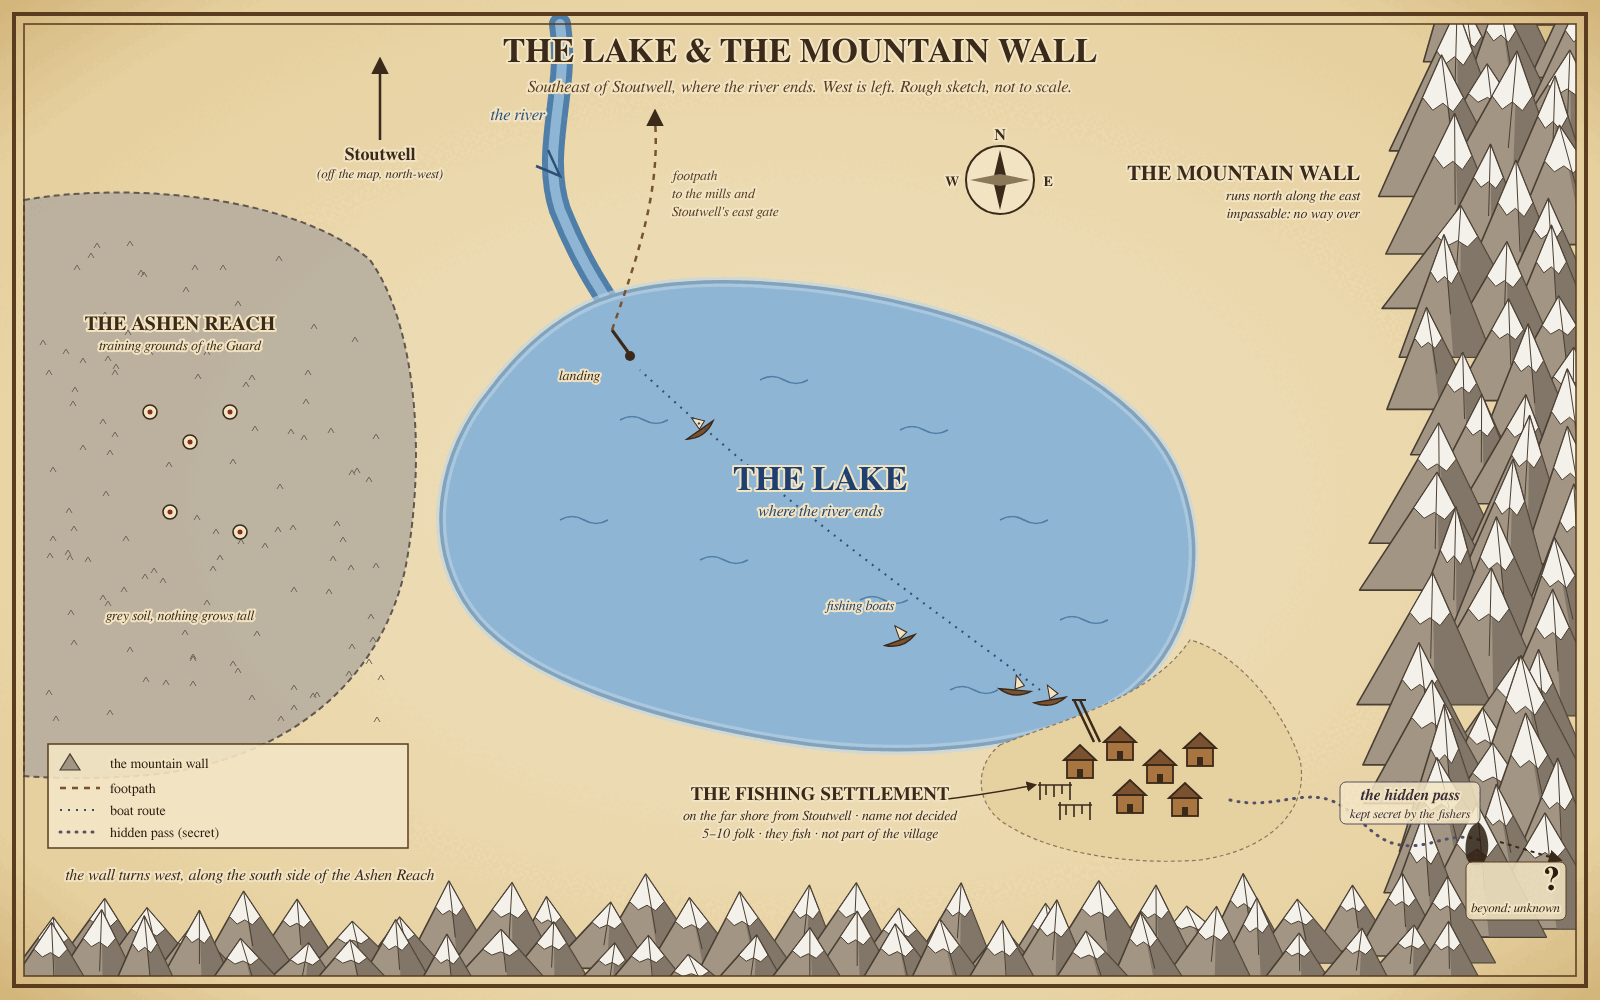
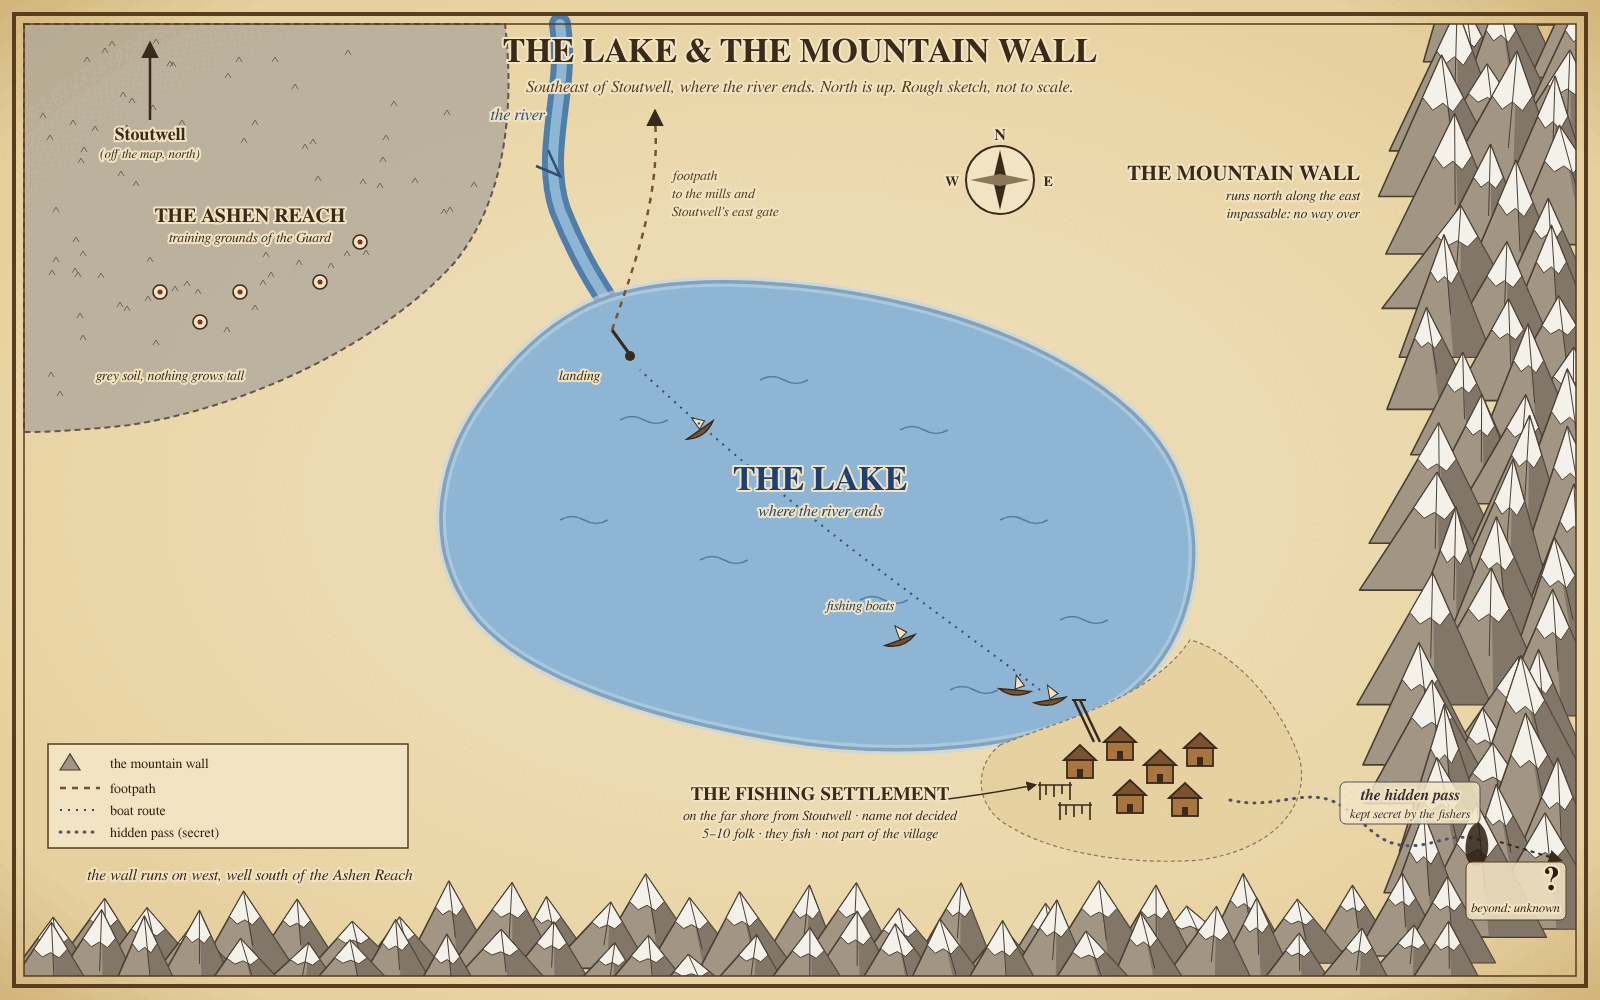
Lake map: put the Ashen Reach to the northwest
The Ashen Reach lies south of Stoutwell, which is northwest of the lake,
so on the close-up it now sits in the top-left corner with Stoutwell off
the map to its north, not along the west edge.

Claude-Session: https://claude.ai/code/session_014B9TrNExnVdXjS4BEkuqGY

Changed region(s): [[0.0, 0.0, 0.6562, 0.775], [0.0312, 0.868, 0.2812, 0.899]]

diff --git a/maps/README.md b/maps/README.md
@@ -4,4 +4,4 @@ Rough sketches, not to scale.
 
 - `region.png`: Verrowen around Stoutwell. It shows the Kingdom and its capital, the Monster Wood (the Blight, the goblin lands, troll territory and how far adventurers from the west have gotten), the Woodland Road, the croplands, Stoutwell, the Ashen Reach (its training grounds, to the south), the river, the irrigation and the mills, and to the southeast the lake where the river ends, the fishing settlement on its far shore, the corner of the mountain wall that runs along the east and the south, and the fishers' hidden pass. `region.svg` is its editable source.
 - `stoutwell.png`: inside the walls. It shows the four gates, the main roads from each gate to the town square and the lanes into each district, the districts and the slanted divide (slums along the south and SE), the Gathering Hall, the dried well, the Wellhouse, Monstradius and the research building, Murrow's home, Doric's smithy, the lumber yard, the river mills and the Ashen Reach to the south. `stoutwell.svg` is its editable source.
-- `lake.png`: the lake, close up. It shows where the river ends, the near-shore landing and the footpath back to the mills and Stoutwell, the fishing boats, the fishing settlement (5 to 10 folk) on the far shore, the corner of the mountain wall, the hidden pass the fishers keep secret and the Ashen Reach to the west, with the mountains' southern arm beyond it. `lake.svg` is its editable source.
+- `lake.png`: the lake, close up. It shows where the river ends, the near-shore landing and the footpath back to the mills and Stoutwell, the fishing boats, the fishing settlement (5 to 10 folk) on the far shore, the corner of the mountain wall, the hidden pass the fishers keep secret and the Ashen Reach to the northwest, between the lake and Stoutwell, with the mountains' southern arm well to its south. `lake.svg` is its editable source.
